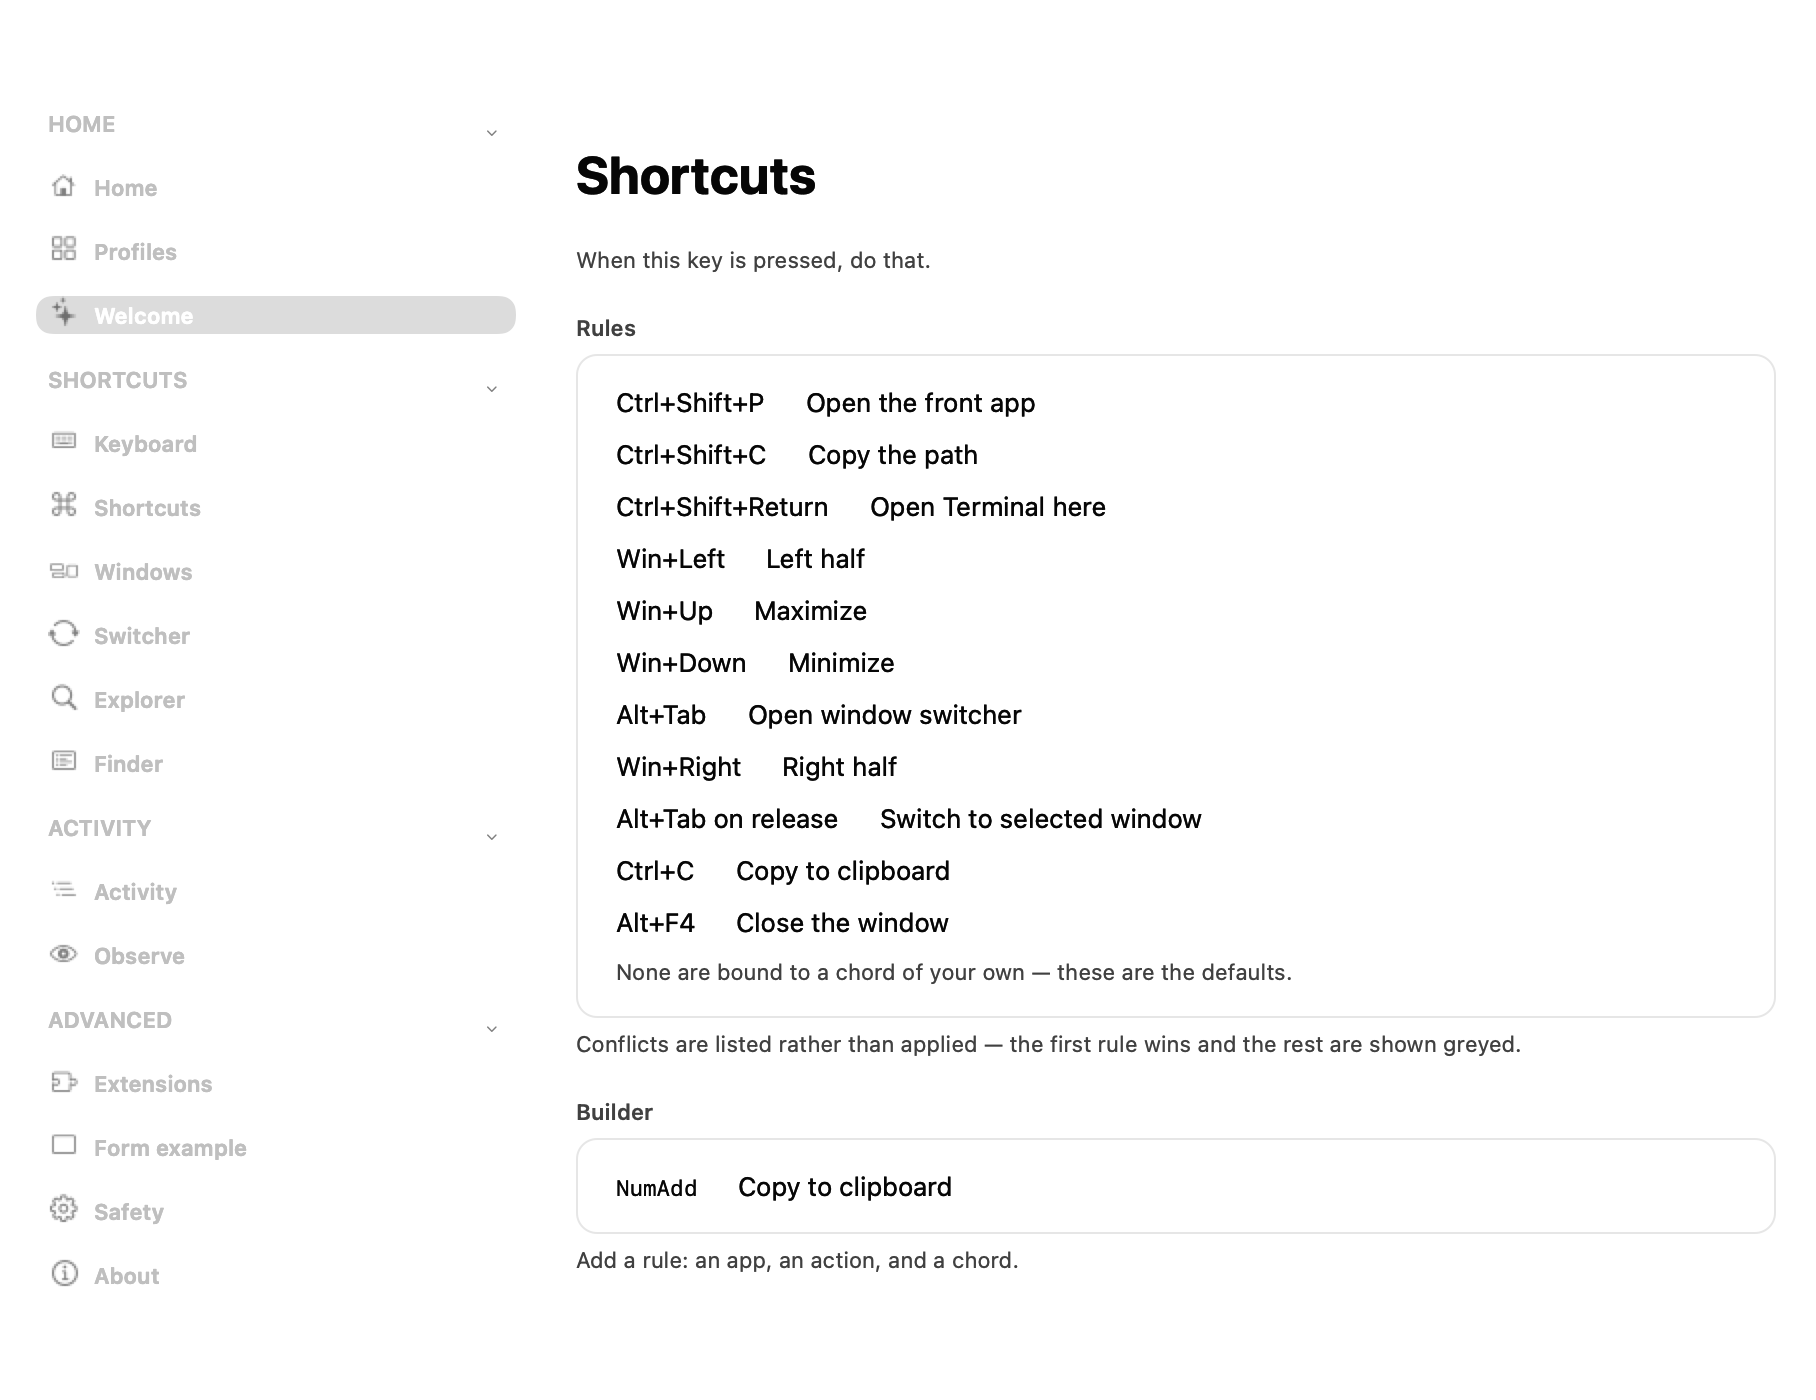
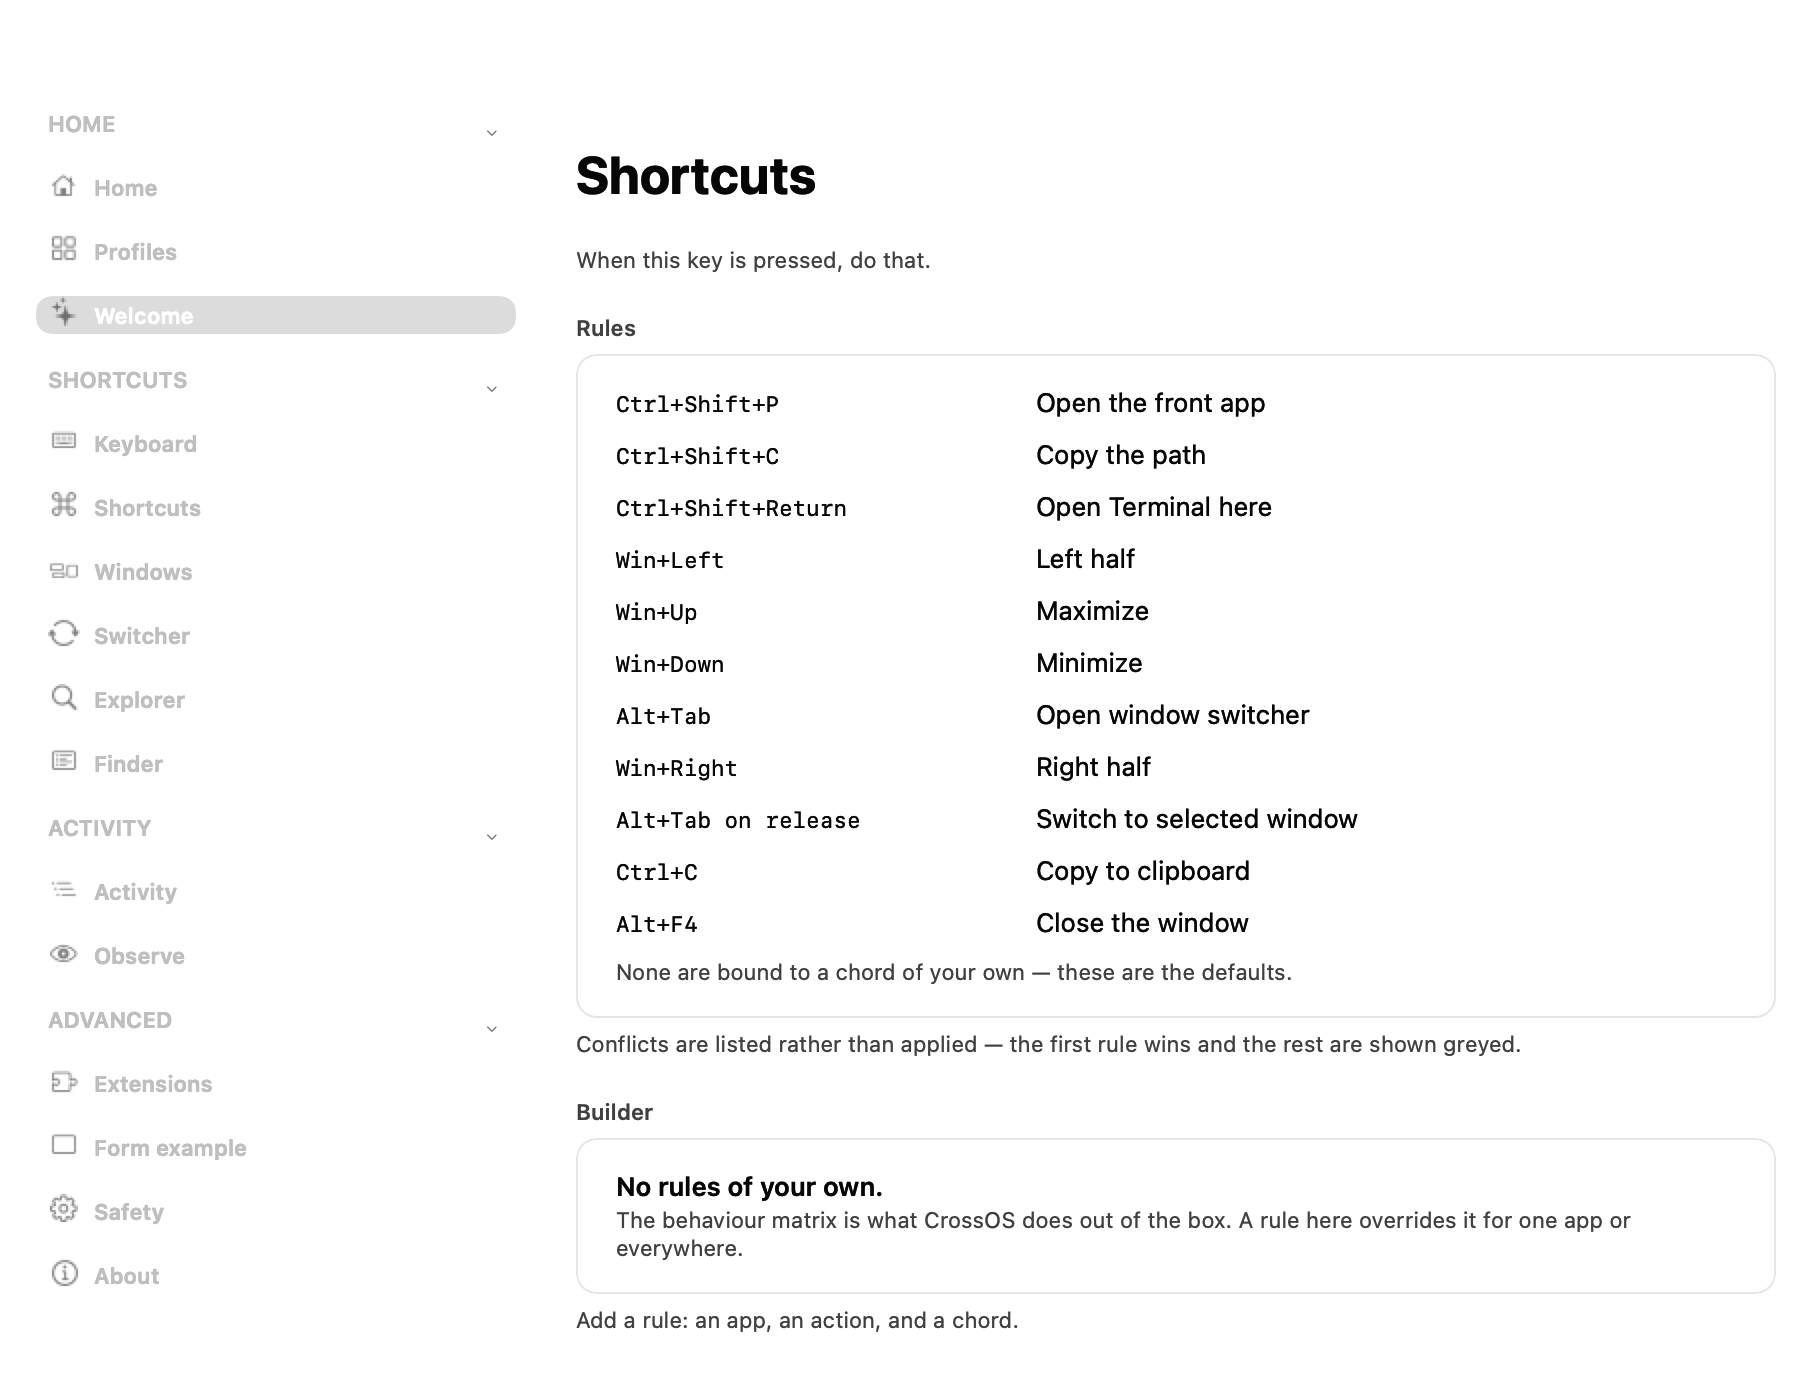
fix: the shortcuts list was a list whose second column had no edge
`core.shortcuts` rendered eleven rows of chord-then-action, and the chord
took its own width — so "Ctrl+Shift+Return", "Alt+Tab on release" and
"Win+Left" put their actions at eleven different x positions down what
reads as a single list. The chord is a column now: fixed width, left
aligned inside it, and the action fills what is left.

Left alignment matters as much as the width. `NSTextField(labelWithString:)`
aligns naturally by default, which centres a short chord back inside the
column and undoes the whole thing — which is why the first attempt, a
width constraint alone, changed nothing visible.

The same fix is applied to the user-rules renderer above it, which had the
same ragged column.

**Test data this repo left in the user's config is gone.** While looking at
the page I found a `NumAdd → Copy to clipboard` user rule left behind by an
earlier verification run in this session, rendering on the Builder group as
if the reader had written it. `config.deleteUserRule` removed it. Shortcuts,
zones, overrides and the profile are back to empty and nothing applied.

Recorded in `docs/screenshots/README.md`: **the title bar and toolbar are
not in these pictures, and cannot be.** Three ways of getting the chrome in
were tried — the theme frame, a synthetic holder (which crashes, because a
window tears down its own content view), and `screencapture` (which needs
Screen Recording permission). So the toolbar has never been checked by a
[…]

Changed region(s): [[0.3392, 0.2764, 0.7401, 0.6757], [0.3084, 0.8293, 0.8943, 0.9521]]

diff --git a/macos/Sources/CrossOSApp/RemainingViews.swift b/macos/Sources/CrossOSApp/RemainingViews.swift
@@ -343,6 +343,20 @@ final class RuleBuilderView: CardControl {
         for rule in userRules {
             let chord = NSTextField(labelWithString: Chord.format(rule.chord))
             chord.font = Typeface.mono
+            // The chord is a COLUMN, so every action starts at the same x.
+            //
+            // It took its own width, and the chords are not the same width:
+            // measured on `core.shortcuts`, "Ctrl+Shift+Return", "Alt+Tab on
+            // release" and "Win+Left" put their actions at three different x
+            // positions down what reads as one list — a list whose second
+            // column has no edge.
+            // `.left` inside the field, because the field is wider than the
+            // text: `labelWithString:` aligns naturally, which centres a short
+            // chord in the 190pt column and undoes the column.
+            chord.alignment = .left
+            chord.widthAnchor.constraint(equalToConstant: 190).isActive = true
+            chord.setContentHuggingPriority(.required, for: .horizontal)
+            chord.setContentCompressionResistancePriority(.required, for: .horizontal)
             let scope = NSTextField(labelWithString: rule.scope.isEmpty
                 ? "Everywhere"
                 : (rule.appIDs ?? []).map { names[$0] ?? $0 }.joined(separator: ", "))
@@ -350,10 +364,13 @@ final class RuleBuilderView: CardControl {
             scope.textColor = Palette.secondaryInk
             let action = NSTextField(labelWithString: Humanize.phrase(rule.action))
             action.font = Typeface.body
+            action.alignment = .left
             let line = NSStackView(views: [chord, action, scope])
             line.orientation = .horizontal
+            line.distribution = .fill
             line.spacing = Gap.group
             line.alignment = .firstBaseline
+            line.translatesAutoresizingMaskIntoConstraints = false
             column.addArrangedSubview(line)
         }
         replaceBody(with: column)

diff --git a/macos/Sources/CrossOSApp/FinalViews.swift b/macos/Sources/CrossOSApp/FinalViews.swift
@@ -404,11 +404,30 @@ final class ShortcutListView: CardControl {
         stack.spacing = Gap.row
 
         for row in matrixRows ?? [] {
-            let line = NSStackView(views: [
-                NSTextField(labelWithString: Chord.format(row.keys)),
-                NSTextField(labelWithString: Humanize.phrase(row.action)),
-            ])
+            // The chord is a COLUMN, so every action starts at one x.
+            //
+            // It took its own width, and chords are not one width: measured on
+            // `core.shortcuts`, "Ctrl+Shift+Return", "Alt+Tab on release" and
+            // "Win+Left" put their actions at eleven different positions down
+            // what reads as a single list — a list whose second column has no
+            // edge. `.left` inside the field as well, because a label aligns
+            // naturally by default and centres a short chord back in the column.
+            let chord = NSTextField(labelWithString: Chord.format(row.keys))
+            chord.font = Typeface.mono
+            chord.alignment = .left
+            chord.widthAnchor.constraint(equalToConstant: 190).isActive = true
+            chord.setContentHuggingPriority(.required, for: .horizontal)
+            chord.setContentCompressionResistancePriority(.required, for: .horizontal)
+
+            let action = NSTextField(labelWithString: Humanize.phrase(row.action))
+            action.font = Typeface.body
+            action.alignment = .left
+            action.setContentHuggingPriority(.defaultLow, for: .horizontal)
+
+            let line = NSStackView(views: [chord, action])
             line.orientation = .horizontal
+            line.distribution = .fill
+            line.translatesAutoresizingMaskIntoConstraints = false
             line.spacing = Gap.group
             line.alignment = .firstBaseline
             if !row.enabled {

diff --git a/docs/screenshots/README.md b/docs/screenshots/README.md
@@ -21,6 +21,27 @@ layout defect in this repo was measured on half the app.
 git add docs/screenshots && git commit
 ```
 
+## What is NOT in these pictures
+
+**The title bar and the toolbar are missing**, so the search field is not in
+any of them. `window.contentView` starts below the title bar, and
+`--shots --window` renders that view.
+
+Three ways of getting the chrome in were tried and all three failed:
+
+- capturing `contentView.superview` (the theme frame) — renders the same
+  picture, so the frame is not taller than the content
+- pulling `contentView` out of its window into a synthetic holder —
+  `Trace/BPT trap`, because a window tears down its own content view when it
+  is removed
+- `screencapture` — "could not create image from display", which is Screen
+  Recording permission
+
+So the toolbar has never been checked by a render in this repo, and any
+statement about it in a commit message was made about a picture it was not
+in. **A person looking at the real window is the only way to check it** —
+`./scripts/run.sh`.
+
 ## Reading them
 
 The window is sized to its content down to a floor set by the navigation rail,
